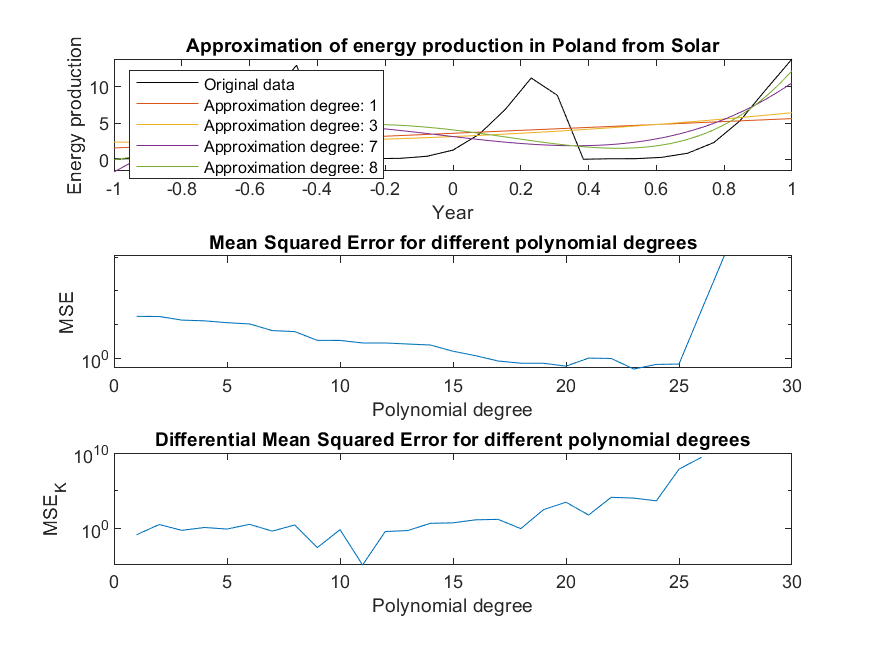
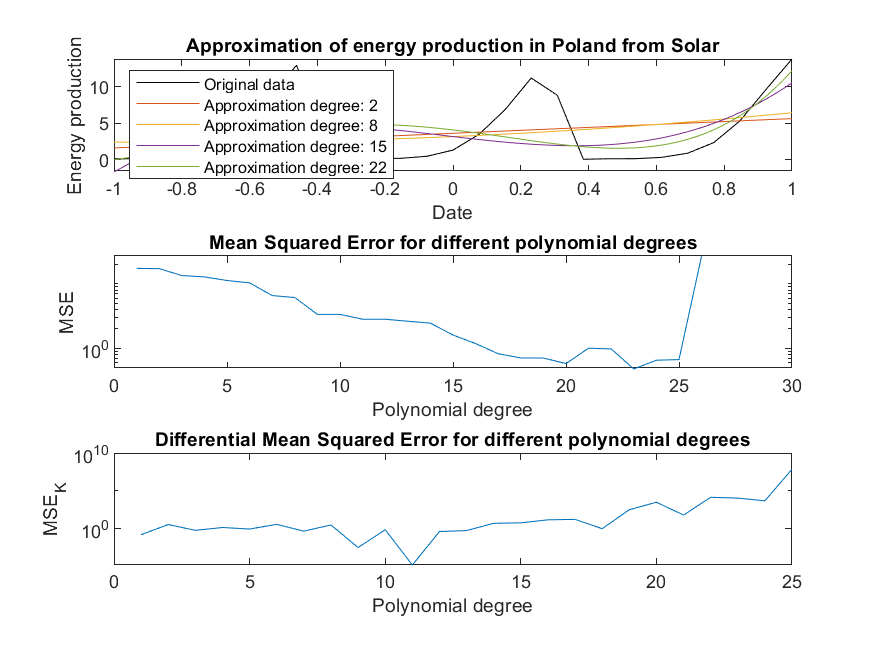
Lab 6 - update tasks 4 and 5; regenerate plots

diff --git a/lab6/zadanie5.m b/lab6/zadanie5.m
@@ -20,21 +20,16 @@ function [country, source, degrees, x_coarse, x_fine, y_original, y_yearly, y_ap
 	
 	country = 'Poland';
 	source = 'Solar';
-	degrees = [];
 	x_coarse = [];
 	x_fine = [];
 	y_original = [];
 	y_yearly = [];
-	y_approximation = [];
-	mse = [];
-	msek = [];
 	
 	% Sprawdzenie dostępności danych
 	if isfield(energy, country) && isfield(energy.(country), source)
 		% Przygotowanie danych do aproksymacji
-		dates = energy.(country).(source).Dates;
 		y_original = energy.(country).(source).EnergyProduction;
-		y_original_mean = movmean(y_original,[11,0]);
+		% y_original_mean = movmean(y_original,[11,0]);
 	
 		% Obliczenie danych rocznych
 		n_years = floor(length(y_original) / 12);
@@ -42,13 +37,16 @@ function [country, source, degrees, x_coarse, x_fine, y_original, y_yearly, y_ap
 		y4sum = reshape(y_cut, [12 n_years]);
 		y_yearly = sum(y4sum,1)';
 	
-		degrees = ceil(3:(length(y_yearly)/4):length(y_yearly)-1);
-	
 		% Przygotowanie danych do aproksymacji
 		N = length(y_yearly);
 		P = (N-1)*8+1; % liczba wartości funkcji aproksymującej
 		x_coarse = linspace(0, 1, N)';
 		x_fine = linspace(0, 1, P)';
+		degrees = floor(2:N/4:N);
+
+		y_approximation = cell(N-1, 1)';
+		mse = zeros(N, 1);
+		msek = zeros(N-1, 1);
 	
 		% Pętla po wielomianach różnych stopni
 		previous = [];
@@ -62,37 +60,29 @@ function [country, source, degrees, x_coarse, x_fine, y_original, y_yearly, y_ap
 			previous = X;
 		end
 
-		x_original_dates = linspace(dates(1), dates(end), N);
-		x_fine_dates = linspace(dates(1), dates(end), P);
-
 		figure;
 		subplot(3,1,1);
-		plot(x_original_dates, y_yearly, 'k', 'DisplayName', 'Original data');
+		plot(x_coarse, y_yearly, 'k', 'DisplayName', 'Original data');
 		hold on;
 		for i = 1:length(degrees)
-			plot(x_fine_dates, y_approximation{degrees(i)}, 'DisplayName', ['Approximation degree: ', num2str(degrees(i))]);
+			plot(x_fine, y_approximation{degrees(i)}, 'DisplayName', ['Approximation degree: ', num2str(degrees(i))]);
 		end
 		title(['Approximation of energy production in ', country, ' from ', source]);
-		legend('Location', 'eastoutside');
+		legend('Location', 'northwest');
 		xlabel('Year');
 		ylabel('Energy production');
-		hold off;
 
 		subplot(3,1,2);
 		semilogy(mse);
-		axis padded;
 		title('Mean Squared Error for different polynomial degrees');
 		xlabel('Polynomial degree');
 		ylabel('MSE');
-		hold off;
 
 		subplot(3,1,3);
 		semilogy(msek);
-		axis padded;
 		xlabel('Polynomial degree');
 		ylabel('MSE_K');
 		title('Differential Mean Squared Error for different polynomial degrees');
-		hold off;
 		saveas(gcf, 'zadanie5.png');
 	
 	else
@@ -103,16 +93,16 @@ end
 
 function X = dct2_custom(x, kmax)
 % Wyznacza kmax pierwszych współczynników DCT-2 dla wektora wejściowego x.
-N = length(x);
-X = zeros(kmax, 1);
-c2 = sqrt(2/N);
-c3 = pi/2/N;
-nn = (1:N)';
+	N = length(x);
+	X = zeros(kmax, 1);
+	c2 = sqrt(2/N);
+	c3 = pi/2/N;
+	nn = (1:N)';
 
-X(1) = sqrt(1/N) * sum( x(nn) );
-for k = 2:kmax
-	X(k) = c2 * sum( x(nn) .* cos(c3 * (2*(nn-1)+1) * (k-1)) );
-end
+	X(1) = sqrt(1/N) * sum( x(nn) );
+	for k = 2:kmax
+		X(k) = c2 * sum( x(nn) .* cos(c3 * (2*(nn-1)+1) * (k-1)) );
+	end
 end
 
 function x = idct2_custom(X, kmax, N, P)
@@ -121,14 +111,15 @@ function x = idct2_custom(X, kmax, N, P)
 % kmax - liczba współczynników DCT zastosowanych do wyznaczenia wektora x
 % N - liczba danych dla których została wyznaczona macierz X
 % P - długość zwracanego wektora x (liczba wartości funkcji aproksymującej w przedziale [0,1])
-x = zeros(P, 1);
-kk = (2:kmax)';
-c1 = sqrt(1/N);
-c2 = sqrt(2/N);
-c3 = pi*(N - 1)/(2*N*(P - 1));
-c4 = -(pi*(N - P))/(2*N*(P - 1));
+	x = zeros(P, 1);
+	kk = (2:kmax)';
+	c1 = sqrt(1/N);
+	c2 = sqrt(2/N);
+	c3 = pi*(N - 1)/(2*N*(P - 1));
+	c4 = -(pi*(N - P))/(2*N*(P - 1));
 
-for n = 1:P
-	x(n) = c1*X(1) + c2*sum( X(kk) .* cos((c3*(2*(n-1)+1)+c4) * (kk-1)) );
+	for n = 1:P
+		x(n) = c1*X(1) + c2*sum( X(kk) .* cos((c3*(2*(n-1)+1)+c4) * (kk-1)) );
+	end
 end
-end
+	

diff --git a/lab6/zadanie4.m b/lab6/zadanie4.m
@@ -19,10 +19,6 @@ function [country, source, degrees, x_coarse, x_fine, y_original, y_yearly, y_ap
 	%   - msek liczony jest dla aproksymacji wyznaczonych dla wektora x_fine
 	country = 'Poland';
 	source = 'Solar';
-	degrees = [1 3 7 8];
-	y_approximation = [];
-	mse = [];
-	msek = [];
 	% Sprawdzenie dostępności danych
 	if isfield(energy, country) && isfield(energy.(country), source)
 		% Przygotowanie danych do aproksymacji
@@ -36,8 +32,13 @@ function [country, source, degrees, x_coarse, x_fine, y_original, y_yearly, y_ap
 		P = (N-1)*10+1;
 		x_coarse = linspace(-1, 1, N)';
 		x_fine = linspace(-1, 1, P)';
+        degrees = floor(2:N/4:N);
+
+		y_approximation = cell(N-1, 1)';
+		mse = zeros(N-1, 1);
+		msek = zeros(N-2, 1);
 		% Pętla po wielomianach różnych stopni
-		for i = 1:N
+		for i = 1:N-1
 			p = my_polyfit(x_coarse, y_yearly, i);
 			y_approximation{i} = polyval(p, x_fine);
 			mse(i, 1) = mean((y_yearly - polyval(p, x_coarse)).^2);
